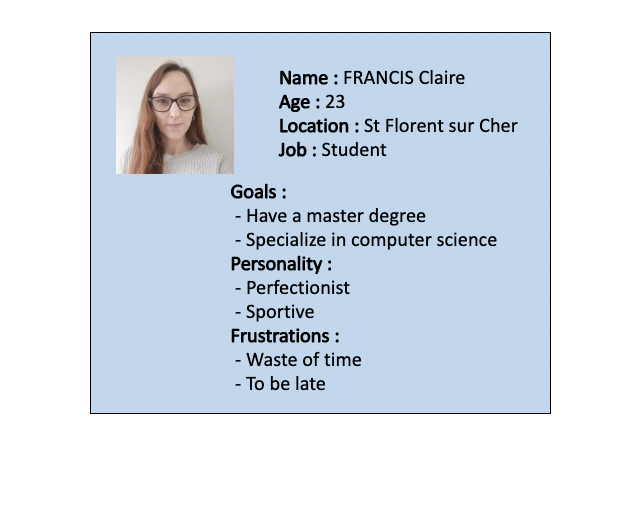
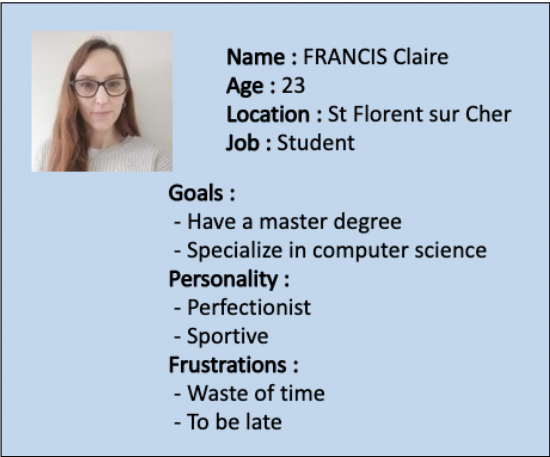
restructure files

diff --git a/Specification/Functionnal Specification.md b/Specification/Functionnal Specification.md
@@ -125,10 +125,24 @@ This will be useful because we can imagine a presentation to some investors, fut
 
 We think about multiple cases :
 
+Student 
+
 ![Student](Files/TORRES_Marc.png)
+
+Second Student
+
 ![Student](Files/Claire_FRANCIS.png)
+
+Stakeholders
+
 ![Stakeholders](Files/TIRVALD_Lonus.png)
+
+Janitors
+
 ![Janitors](Files/Yohann_BARBAN.png)
+
+Staff
+
 ![Staff](Files/Marcel_DUPONT.png)
 
 <!-- Add a Personae About Franck, with all the access into the school  -->
